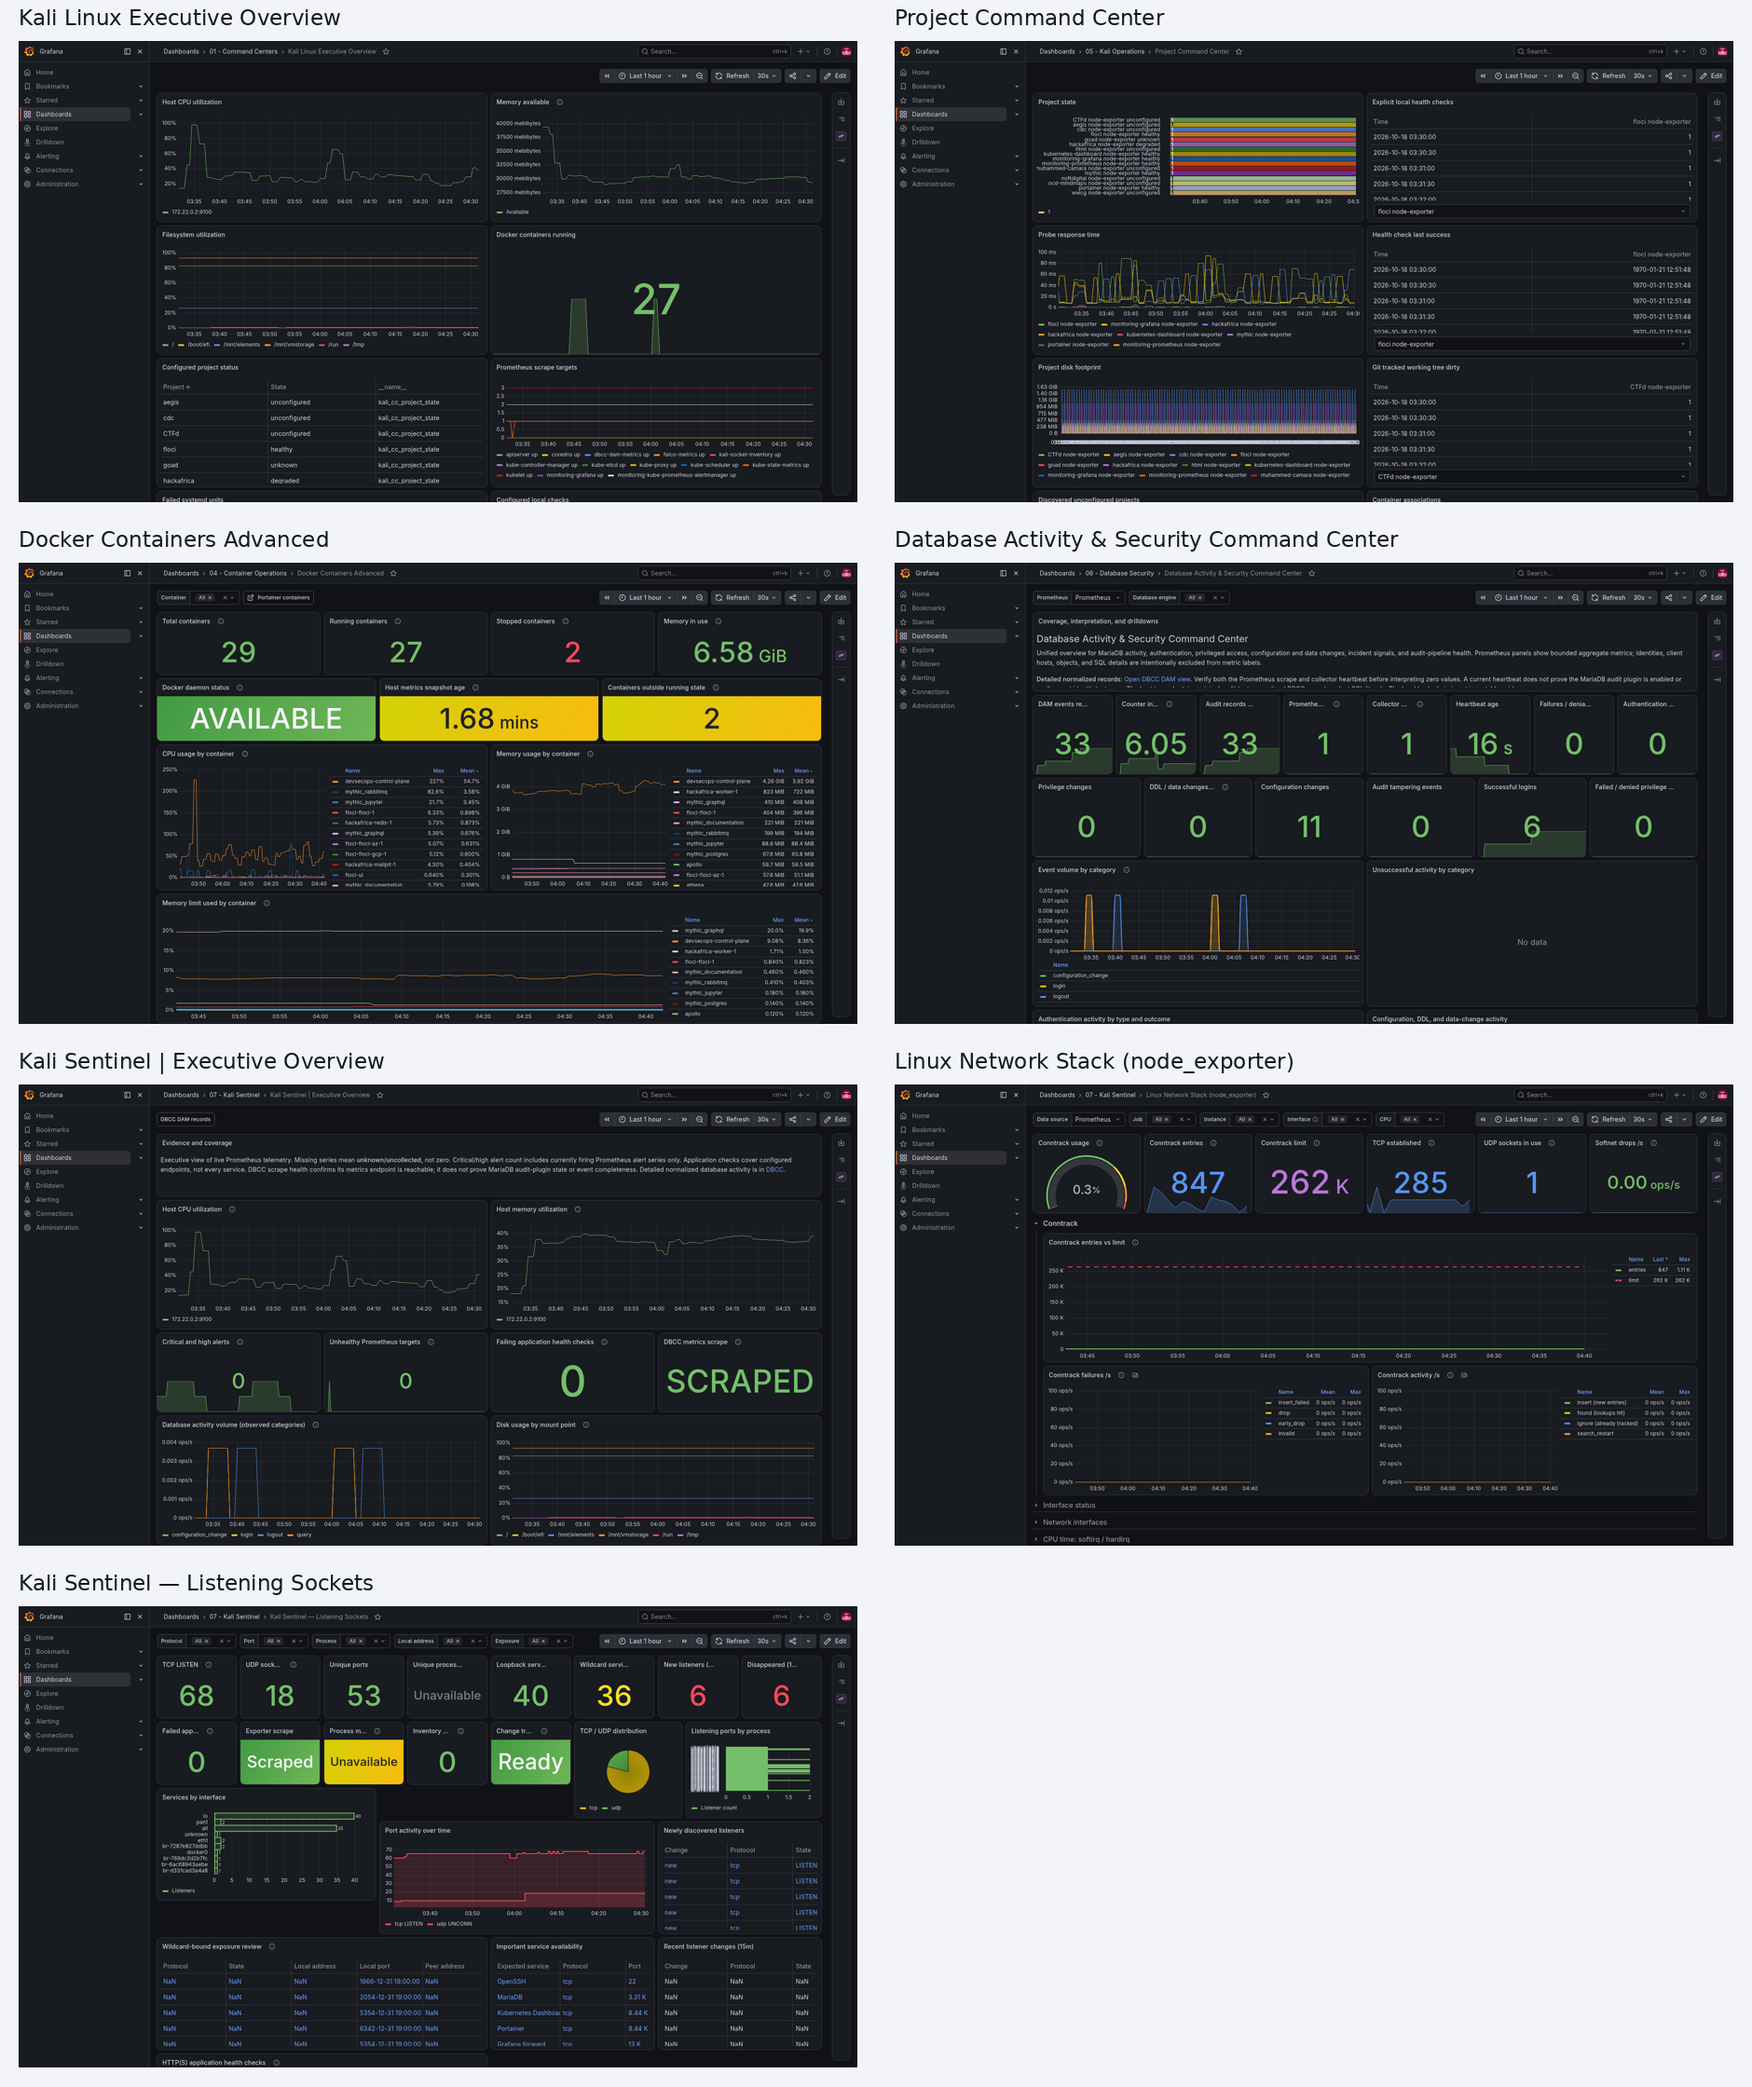
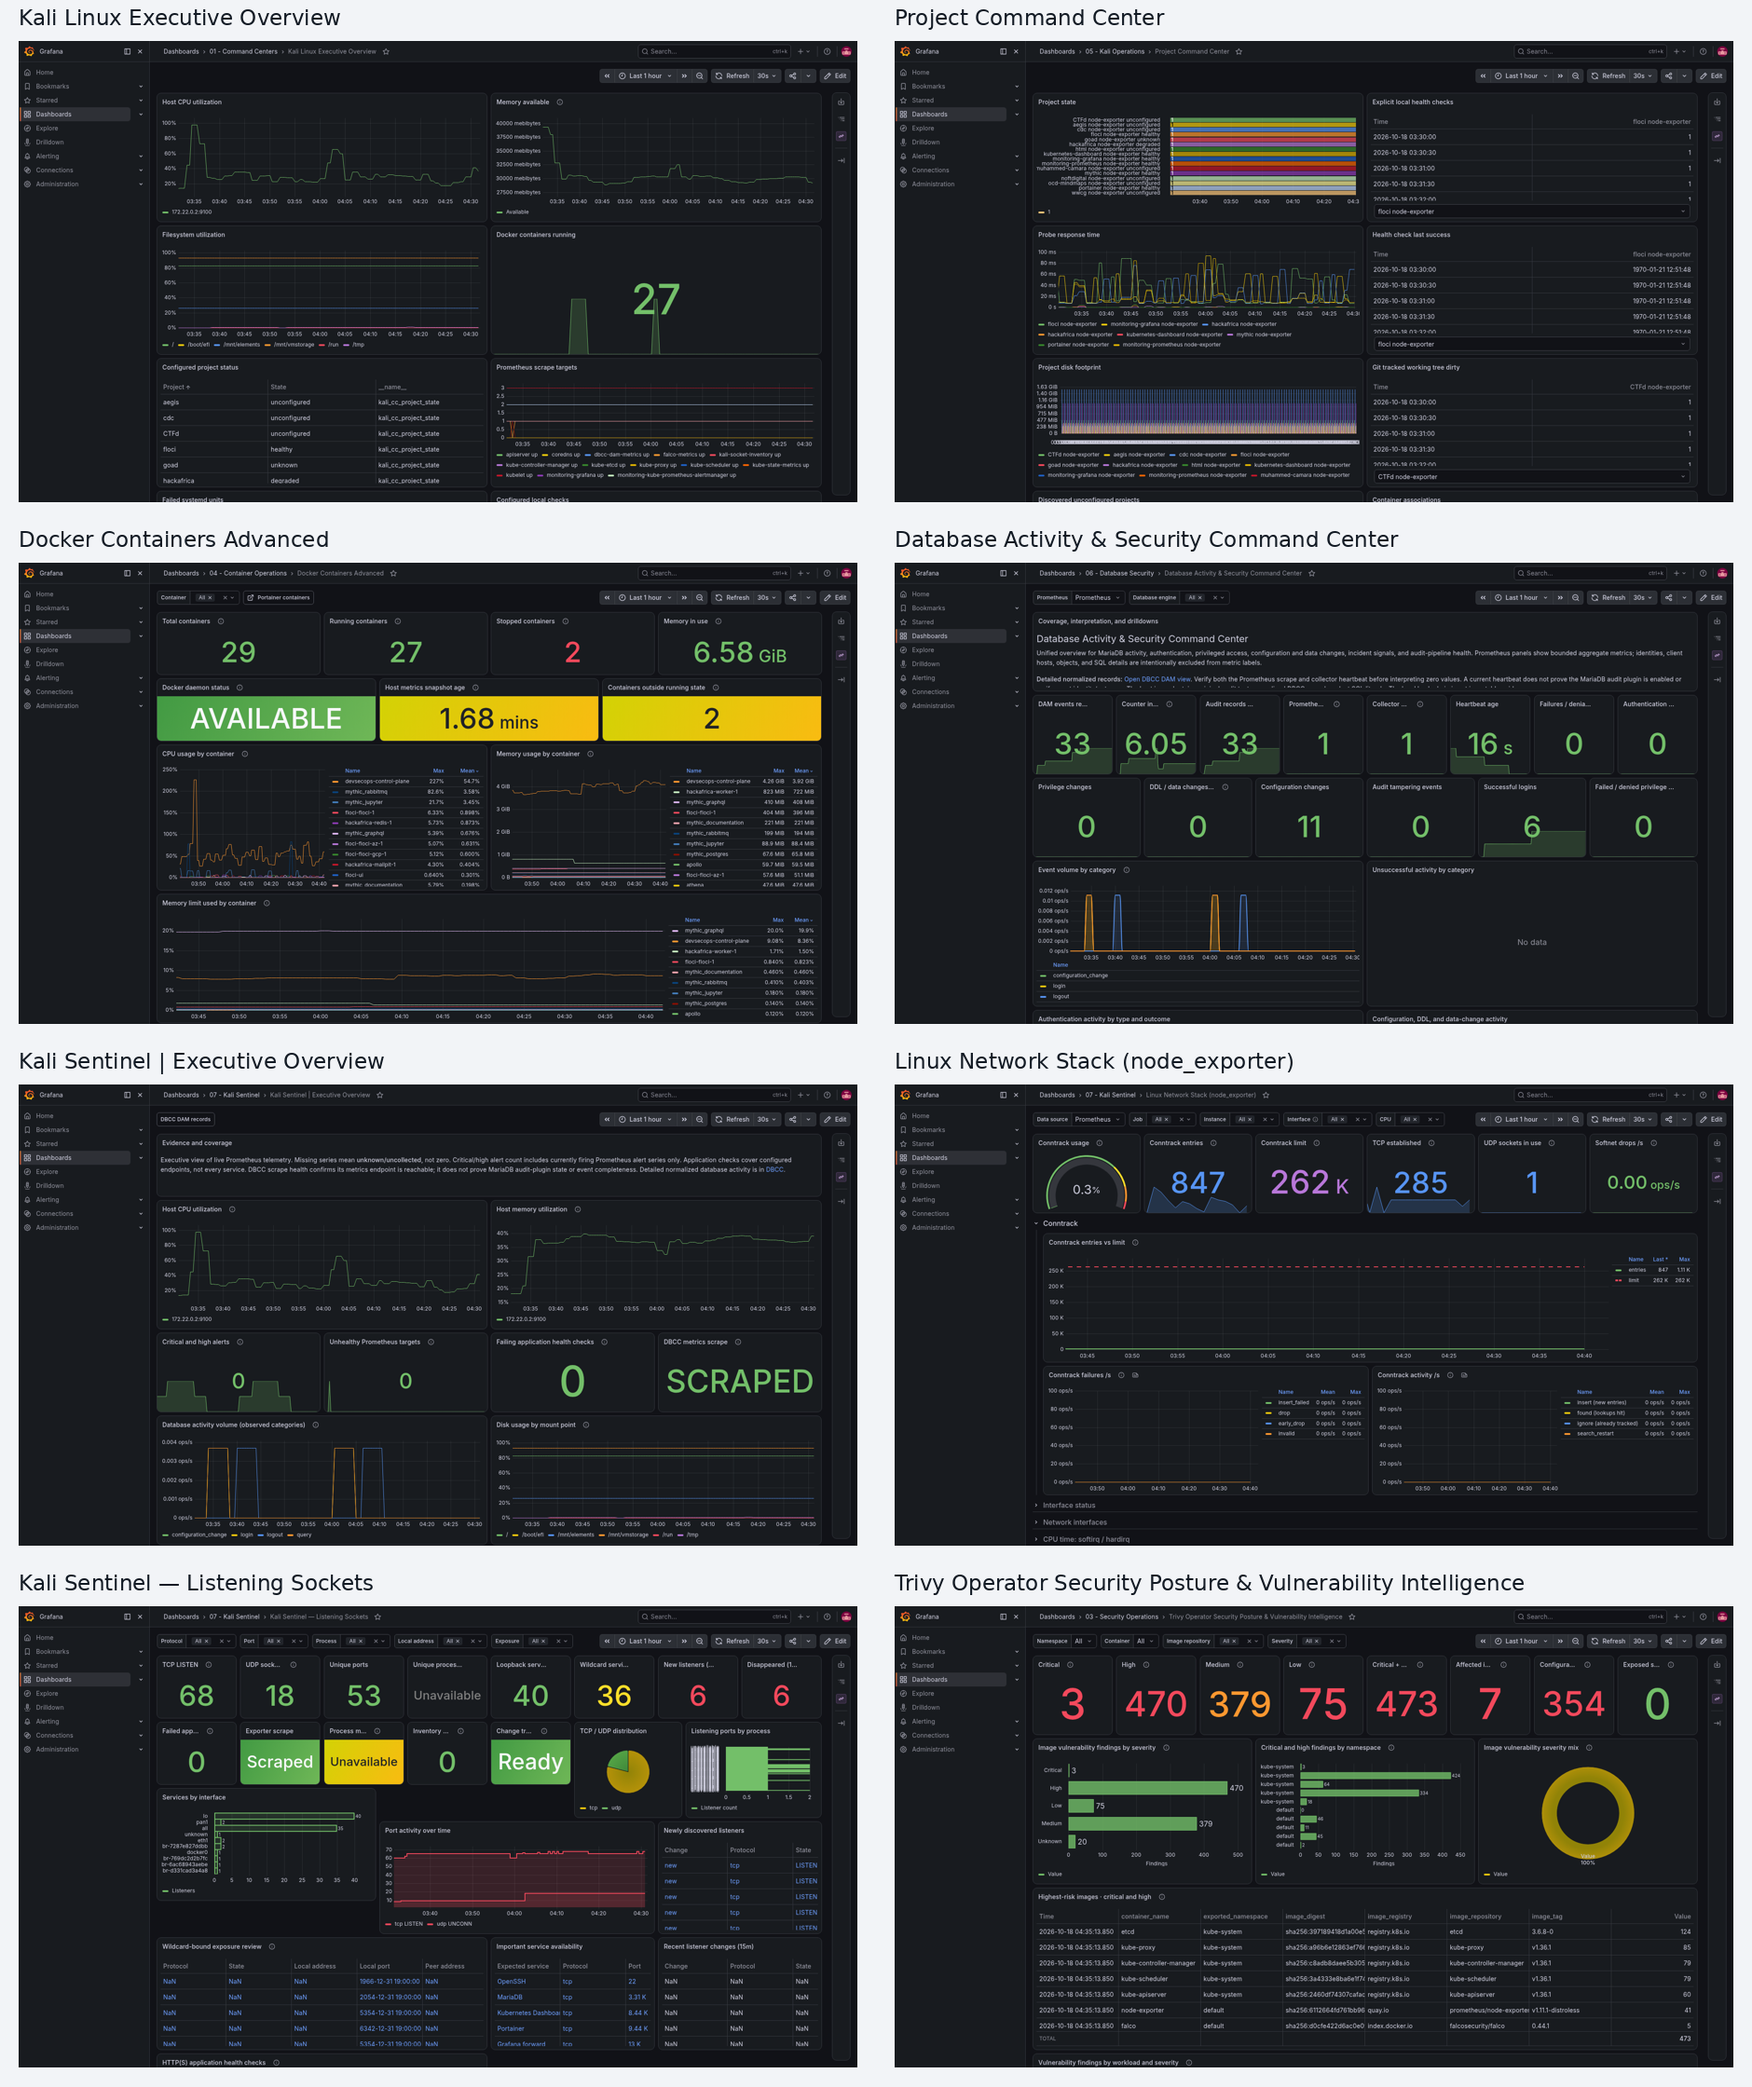
Add Trivy dashboard to LinkedIn image set

Changed region(s): [[0.4936, 0.75, 1.0, 1.0]]

diff --git a/LINKEDIN_POST.md b/LINKEDIN_POST.md
@@ -17,7 +17,7 @@ Infrastructure observability helps answer whether systems are available, saturat
 
 Specialized views keep each workflow legible and make it easier to correlate relevant signals without turning one dashboard into an unreadable wall of panels. The most useful engineering lesson was to document what panels and queries actually exist, make data gaps explicit, and avoid treating a saved query as evidence that its telemetry is healthy.
 
-Possible future work (ideas for a next iteration, not commitments or completed work): continue validating telemetry freshness and coverage, review alert thresholds against the lab's operating patterns, and prepare selectively redacted public images that retain useful panel detail. See [`LINKEDIN_IMAGES.md`](LINKEDIN_IMAGES.md) for the recommended unblurred images and post sequence. The curated images are copies; the full capture archive remains under `screenshots/`.
+Possible future work (ideas for a next iteration, not commitments or completed work): continue validating telemetry freshness and coverage, review alert thresholds against the lab's operating patterns, and prepare selectively redacted public images that retain useful panel detail. See [`LINKEDIN_IMAGES.md`](LINKEDIN_IMAGES.md) for the recommended unblurred images and post sequence, including the Trivy Operator dashboard. The curated images are copies; the full capture archive remains under `screenshots/`.
 
 How do you decide where to draw the boundary between infrastructure health dashboards and security investigation views in a small lab?
 

diff --git a/linkedin-assets/unblurred/README.md b/linkedin-assets/unblurred/README.md
@@ -4,7 +4,7 @@ These images are original, readable Grafana screenshots and contact sheets. They
 
 ## Recommended LinkedIn set
 
-See [`LINKEDIN_IMAGES.md`](../../LINKEDIN_IMAGES.md) for seven curated, unblurred images in suggested post order. The focused contact sheet is [`linkedin-selection-originals.png`](contact-sheets/linkedin-selection-originals.png). The broader contact sheets below are for browsing the full capture set.
+See [`LINKEDIN_IMAGES.md`](../../LINKEDIN_IMAGES.md) for eight curated, unblurred images in suggested post order. The focused contact sheet is [`linkedin-selection-originals.png`](contact-sheets/linkedin-selection-originals.png). The broader contact sheets below are for browsing the full capture set.
 
 ## Contact sheets
 - [`contact-sheet-database-monitoring-originals.png`](contact-sheets/contact-sheet-database-monitoring-originals.png)
@@ -48,3 +48,6 @@ See [`LINKEDIN_IMAGES.md`](../../LINKEDIN_IMAGES.md) for seven curated, unblurre
 - [`20-linux-network-stack-node-exporter.png`](dashboard-screenshots/20-linux-network-stack-node-exporter.png)
 - [`22-kali-linux-executive-overview-02.png`](dashboard-screenshots/22-kali-linux-executive-overview-02.png)
 - [`22-kali-linux-executive-overview.png`](dashboard-screenshots/22-kali-linux-executive-overview.png)
+
+## Added LinkedIn selection
+- [`08-trivy-operator-security-posture-and-vulnerability-intelligence.png`](dashboard-screenshots/08-trivy-operator-security-posture-and-vulnerability-intelligence.png)

diff --git a/LINKEDIN_IMAGES.md b/LINKEDIN_IMAGES.md
@@ -33,3 +33,7 @@ File: [`06-linux-network-stack-node-exporter.png`](linkedin-assets/unblurred/das
 ### Kali Sentinel — Listening Sockets — Listening socket inventory
 ![Kali Sentinel — Listening Sockets](linkedin-assets/unblurred/dashboard-screenshots/07-kali-sentinel-listening-sockets.png)
 File: [`07-kali-sentinel-listening-sockets.png`](linkedin-assets/unblurred/dashboard-screenshots/07-kali-sentinel-listening-sockets.png) · [Full-resolution source](screenshots/19-kali-sentinel-listening-sockets.png)
+
+### Trivy Operator Security Posture & Vulnerability Intelligence — Image vulnerability and configuration findings
+![Trivy Operator Security Posture & Vulnerability Intelligence](linkedin-assets/unblurred/dashboard-screenshots/08-trivy-operator-security-posture-and-vulnerability-intelligence.png)
+File: [`08-trivy-operator-security-posture-and-vulnerability-intelligence.png`](linkedin-assets/unblurred/dashboard-screenshots/08-trivy-operator-security-posture-and-vulnerability-intelligence.png) · [Full-resolution source](screenshots/54-trivy-operator-security-posture-and-vulnerability-intelligence.png) · [Open dashboard in local Grafana](http://localhost:13000/d/trivy-operator-overview/b8875f1?orgId=1&from=now-24h&to=now&timezone=browser&var-namespace=%24__all&var-container=%24__all&var-image=%24__all&var-severity=%24__all&refresh=30s)

diff --git a/linkedin-assets/unblurred/dashboard-screenshots/README.md b/linkedin-assets/unblurred/dashboard-screenshots/README.md
@@ -57,3 +57,6 @@ Unblurred Grafana screenshots and contact sheets at full readability. These imag
 ### Kali Linux Executive Overview
 - `22-kali-linux-executive-overview.png`
 - `22-kali-linux-executive-overview-02.png`
+
+### Trivy Operator Security Posture & Vulnerability Intelligence
+- `08-trivy-operator-security-posture-and-vulnerability-intelligence.png`
